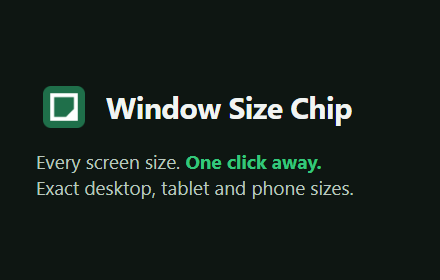
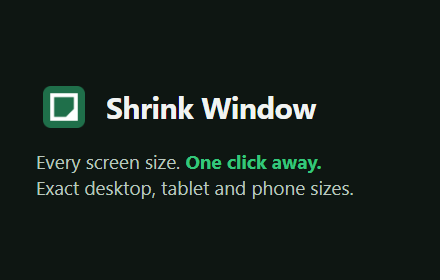
Rename to Shrink Window

Changed region(s): [[0.2364, 0.3429, 0.7977, 0.4571]]

diff --git a/store/scenes/popup-mock.js b/store/scenes/popup-mock.js
@@ -16,14 +16,14 @@ function popupMock(el, o) {
   el.innerHTML = `
   <div class="pop">
     <header>
-      <div><div class="label">Window</div><div class="now">${o.window}</div></div>
-      <div class="right"><div class="label">Viewport</div><div class="vp">${o.viewport}</div></div>
+      <div><div class="label">Viewport</div><div class="now">${o.viewport}</div></div>
+      <div class="right"><div class="label">Window</div><div class="vp">${o.window}</div></div>
     </header>
     ${o.emu ? `<div class="emu"><span>Emulating ${o.emu}</span><button>Reset</button></div>` : ""}
     <section><h2>Desktop <small>resizes the window</small></h2>
-      <div class="grid">${DESKTOP.map((w) => `<button class="${o.active === "d" + w ? "active" : ""}">${w}</button>`).join("")}</div>
+      <div class="grid"><button id="full">Full screen</button>${DESKTOP.map((w) => `<button class="${o.active === "d" + w ? "active" : ""}">${w}</button>`).join("")}</div>
     </section>
-    <section><h2>Tablet &amp; mobile position</h2>
+    <section><h2>Tablet, mobile &amp; foldable position</h2>
       <div class="seg"><button aria-pressed="${!land}">Vertical</button><button aria-pressed="${land}">Horizontal</button></div>
     </section>
     <section><h2>Tablet <small>emulated</small></h2><div class="list">${rows("Tablet", o.tablets ?? 3, o.tabletStart)}</div></section>

diff --git a/store/scenes/screenshot-1.html b/store/scenes/screenshot-1.html
@@ -9,12 +9,12 @@
 <body>
 <div class="scene">
   <div class="copy">
-    <div class="kicker">Window Size Chip</div>
+    <div class="kicker">Shrink Window</div>
     <h1>Every screen size.<br><em>One click away.</em></h1>
-    <p>See your exact window and viewport size live, and land on the exact pixel width you pick.</p>
+    <p>See your exact viewport size live, and land on the exact pixel width you pick.</p>
     <ul>
       <li>Live size on the toolbar icon</li>
-      <li>Exact desktop widths, 2560 to 1200</li>
+      <li>Full screen, or exact widths from 1920 to 1200</li>
       <li>Phones and tablets in one click</li>
     </ul>
   </div>
@@ -23,7 +23,7 @@
     <div class="chrome">
       <div class="dots"><i></i><i></i><i></i></div>
       <div class="url">your-website.com</div>
-      <div class="ext"><img src="../../icons/icon48.png" alt=""><b>1456</b></div>
+      <div class="ext"><img src="../../icons/icon48.png" alt=""><b>1440</b></div>
     </div>
     <div class="site">
       <nav><span class="logo">Brand</span><span class="links"><span>Product</span><span>Pricing</span><span>About</span></span></nav>

diff --git a/store/scenes/screenshot-3.html b/store/scenes/screenshot-3.html
@@ -25,7 +25,7 @@
     <div class="chrome">
       <div class="dots"><i></i><i></i><i></i></div>
       <div class="url">your-website.com</div>
-      <div class="ext"><img src="../../icons/icon48.png" alt=""><b>1456</b></div>
+      <div class="ext"><img src="../../icons/icon48.png" alt=""><b>1024</b></div>
     </div>
     <div style="height: 474px; display: flex; align-items: center; justify-content: center">
       <div style="width: 560px; height: 420px; box-shadow: 0 0 0 1px rgba(255,255,255,.08), 0 10px 40px rgba(0,0,0,.5); overflow: hidden">

diff --git a/store/scenes/screenshot-2.html b/store/scenes/screenshot-2.html
@@ -18,7 +18,7 @@
     <div class="chrome">
       <div class="dots"><i></i><i></i><i></i></div>
       <div class="url">your-website.com</div>
-      <div class="ext"><img src="../../icons/icon48.png" alt=""><b>1456</b></div>
+      <div class="ext"><img src="../../icons/icon48.png" alt=""><b>393</b></div>
     </div>
     <div style="height: 634px; display: flex; align-items: center; justify-content: center">
       <div style="width: 270px; height: 586px; box-shadow: 0 0 0 1px rgba(0,0,0,.08), 0 10px 40px rgba(0,0,0,.18); overflow: hidden">

diff --git a/content.js b/content.js
@@ -5,8 +5,8 @@
   // over from an older version just stops responding.
   if (window.top !== window) return;
   const token = `${chrome.runtime.id}@${chrome.runtime.getManifest().version}`;
-  if (window.__windowSizeChip === token) return;
-  window.__windowSizeChip = token;
+  if (window.__shrinkWindow === token) return;
+  window.__shrinkWindow = token;
 
   let last = "";
   let queued = false;

diff --git a/store/scenes/promo-small.html b/store/scenes/promo-small.html
@@ -19,7 +19,7 @@
 </style>
 </head>
 <body>
-  <div class="row"><img src="../../icons/icon128.png" alt=""><h1>Window Size Chip</h1></div>
+  <div class="row"><img src="../../icons/icon128.png" alt=""><h1>Shrink Window</h1></div>
   <p>Every screen size. <em>One click away.</em><br>Exact desktop, tablet and phone sizes.</p>
 </body>
 </html>

diff --git a/view.html b/view.html
@@ -2,7 +2,7 @@
 <html lang="en">
 <head>
   <meta charset="utf-8">
-  <title>Window Size Chip</title>
+  <title>Shrink Window</title>
   <link rel="stylesheet" href="view.css">
 </head>
 <body>

diff --git a/popup.html b/popup.html
@@ -2,7 +2,7 @@
 <html>
 <head>
   <meta charset="utf-8">
-  <title>Window Size</title>
+  <title>Shrink Window</title>
   <link rel="stylesheet" href="popup.css">
 </head>
 <body>

diff --git a/store/listing.md b/store/listing.md
@@ -5,7 +5,7 @@ Copy each part into the matching field of the Chrome Web Store Developer Dashboa
 ## Store listing tab
 
 **Name**
-Window Size Chip
+Shrink Window
 
 **Summary** (from the manifest, 113 characters)
 See your exact window and viewport size live, and switch any page to desktop, tablet or phone sizes in one click.
@@ -21,9 +21,9 @@ English
 ```
 Know your exact screen size. Switch it in one click.
 
-Window Size Chip is made for designers and developers who test responsive layouts all day.
+Shrink Window is made for designers and developers who test responsive layouts all day.
 
-Most resizer tools change the window. But your CSS breakpoints care about the viewport, the part that actually shows your page. Borders, scrollbars and zoom eat into it, so you pick 1440 and end up testing at 1423 without knowing it. Window Size Chip measures the viewport and adjusts until it's exact.
+Most resizer tools change the window. But your CSS breakpoints care about the viewport, the part that actually shows your page. Borders, scrollbars and zoom eat into it, so you pick 1440 and end up testing at 1423 without knowing it. Shrink Window measures the viewport and adjusts until it's exact.
 
 LIVE SIZE
 • The viewport width shows right on the toolbar icon and updates while you drag the window edge.
@@ -46,7 +46,7 @@ CUSTOM SIZES
 LIGHT AND PRIVATE
 • No data collected, no ads, no tracking, no account.
 • Does nothing in the background until you resize the window or open it.
-• Free and open source: https://github.com/seeamahmod/window-size-chip
+• Free and open source: https://github.com/seeamahmod/shrink-window
 
 Works on Windows, macOS, Linux and ChromeOS.
 ```
@@ -64,8 +64,8 @@ Works on Windows, macOS, Linux and ChromeOS.
 | Field | Value |
 |---|---|
 | Official URL | (leave empty unless you own a verified site) |
-| Homepage URL | https://github.com/seeamahmod/window-size-chip |
-| Support URL | https://github.com/seeamahmod/window-size-chip/issues |
+| Homepage URL | https://github.com/seeamahmod/shrink-window |
+| Support URL | https://github.com/seeamahmod/shrink-window/issues |
 
 ## Privacy practices tab
 
@@ -95,7 +95,7 @@ Tick nothing in the list of data types. Then tick all three certifications:
 - I do not use or transfer user data to determine creditworthiness or for lending purposes.
 
 **Privacy policy URL**
-https://github.com/seeamahmod/window-size-chip/blob/main/PRIVACY.md
+https://github.com/seeamahmod/shrink-window/blob/main/PRIVACY.md
 
 ## Distribution tab
 

diff --git a/PRIVACY.md b/PRIVACY.md
@@ -2,7 +2,7 @@
 
 _Last updated: November 11, 2026_
 
-Window Size Chip is a browser extension that shows your window and viewport size and lets you view pages at other screen sizes.
+Shrink Window is a browser extension that shows your window and viewport size and lets you view pages at other screen sizes.
 
 ## What it collects
 
@@ -29,4 +29,4 @@ None. The extension contains no analytics, ads or third-party code.
 
 ## Contact
 
-Questions about this policy: open an issue at <https://github.com/seeamahmod/window-size-chip/issues>.
+Questions about this policy: open an issue at <https://github.com/seeamahmod/shrink-window/issues>.

diff --git a/SECURITY.md b/SECURITY.md
@@ -15,7 +15,7 @@ Please **don't open a public issue** for security problems.
 
 Report it privately instead:
 
-1. Go to the [Security tab](https://github.com/seeamahmod/window-size-chip/security) of this repository.
+1. Go to the [Security tab](https://github.com/seeamahmod/shrink-window/security) of this repository.
 2. Click **Report a vulnerability**.
 3. Describe the problem, the steps to reproduce it, and what an attacker could do with it.
 

diff --git a/README.md b/README.md
@@ -1,6 +1,6 @@
 <img width="1080" height="1350" alt="Poster 1080×1350@1x" src="https://github.com/user-attachments/assets/a6aaab58-1943-41b0-abca-bdb5355c7415" />
 
-# Window Size Chip
+# Shrink Window
 
 A Chrome extension that shows the live size of your browser window and switches
 it to common screen sizes in one click.
